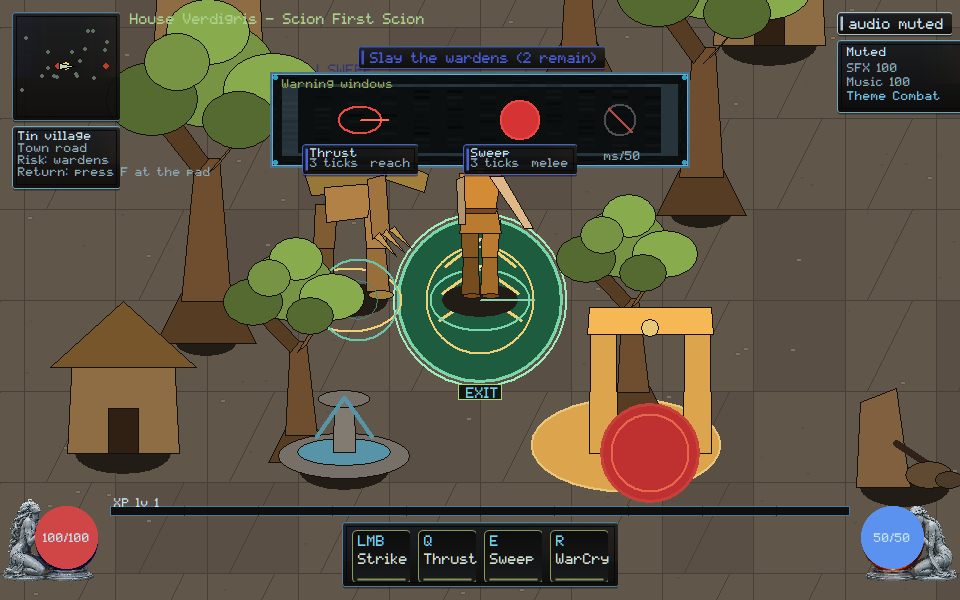
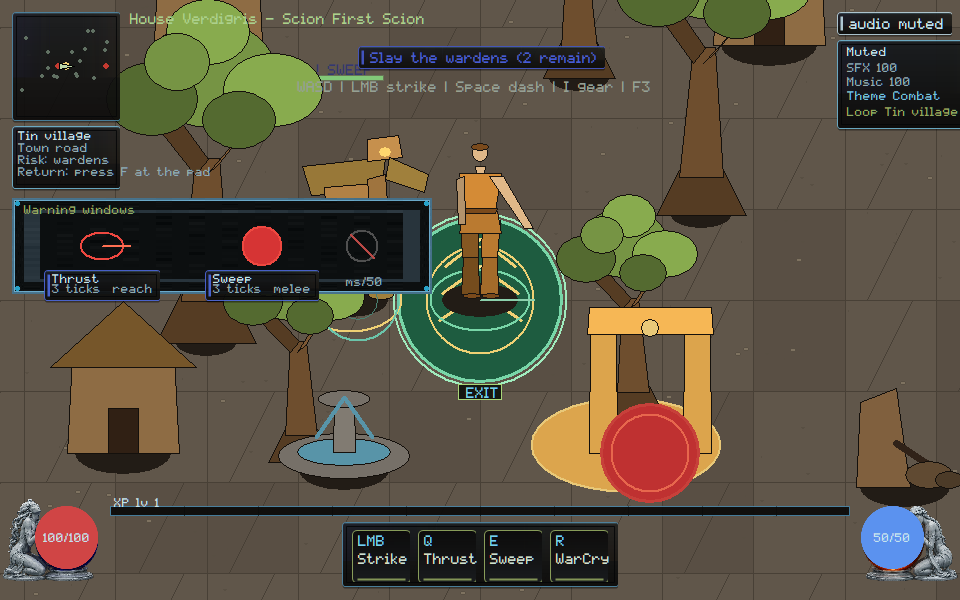
native: park Warning windows off WASD and Tin village so covering combat HUD cannot certify

Changed region(s): [[0.0, 0.33, 0.4688, 0.51], [0.2812, 0.12, 0.7188, 0.3], [0.875, 0.18, 1.0, 0.24]]

diff --git a/native/client/main.cpp b/native/client/main.cpp
@@ -6428,6 +6428,9 @@ void paint_weave_review_strip(ClientState& state, HDC dc, const RECT& bounds,
   SelectObject(dc, old_font);
 }
 
+HudRect park_review_strip(const ClientState& state, int width, int height,
+                          int pane_w, int pane_h);
+
 void paint_telegraph_review_strip(ClientState& state, HDC dc, const RECT& bounds,
                                   render::List& rl) {
   if (!state.telegraph_review_strip) return;
@@ -6438,8 +6441,12 @@ void paint_telegraph_review_strip(ClientState& state, HDC dc, const RECT& bounds
   const int s = hud_scale(static_cast<int>(bounds.bottom));
   const int pane_w = 420 * s;
   const int pane_h = 96 * s;
-  const int left = (static_cast<int>(bounds.right) - pane_w) / 2;
-  const int top = 72 * s;
+  const HudRect parked =
+      park_review_strip(state, static_cast<int>(bounds.right),
+                        static_cast<int>(bounds.bottom), pane_w, pane_h);
+  const int left = parked.x;
+  const int top = parked.y;
+  state.hud_rect_trace.push_back({"telegraph-strip", parked});
   RECT pane{left, top, left + pane_w, top + pane_h};
   if (!draw_framekit_nine(state.billboards, dc, state.billboards.fk_panel, pane))
     skin::panel(dc, pane, skin::kVerdigris, 235, 8.0f);
@@ -16276,6 +16283,30 @@ int scenario_telegraph_spec() {
   const std::string png = dir + "\\telegraph-spec-960x600.png";
   scenario_check(reference_present(state, 960, 600, png),
                  "telegraph-spec: warning-window capture written");
+  {
+    auto trace_find = [](const ClientState& s,
+                         const char* label) -> const HudRect* {
+      for (const auto& entry : s.hud_rect_trace)
+        if (entry.first == label) return &entry.second;
+      return nullptr;
+    };
+    const HudRect* strip = trace_find(state, "telegraph-strip");
+    const HudRect* ctrl = trace_find(state, "controls");
+    const HudRect* objective = trace_find(state, "objective");
+    const HudRect* route = trace_find(state, "route-card");
+    const HudRect* life = trace_find(state, "orb-life");
+    const bool covers =
+        (strip && ctrl && hud_rects_overlap(*strip, *ctrl)) ||
+        (strip && objective && hud_rects_overlap(*strip, *objective)) ||
+        (strip && route && hud_rects_overlap(*strip, *route)) ||
+        (strip && life && hud_rects_overlap(*strip, *life));
+    scenario_check(
+        verdigris::client::actions::telegraph_strip_covers_hud_fails_review(true),
+        "telegraph-spec: covering WASD, the objective, Tin village, or Life is the anti-pattern");
+    scenario_check(
+        !verdigris::client::actions::telegraph_strip_covers_hud_fails_review(covers),
+        "telegraph-spec: Warning windows stays off WASD, the objective, Tin village, and Life");
+  }
 
   ActiveTelegraph ghost;
   ghost.actor_id = "ghost";

diff --git a/native/client/publish-telegraph-timing-and-geometry.hpp b/native/client/publish-telegraph-timing-and-geometry.hpp
@@ -102,5 +102,8 @@ inline const char* owner_life_holds_label() { return "Life holds"; }
 inline bool dodge_strip_covers_hud_fails_review(bool overlap) {
   return overlap;
 }
+inline bool telegraph_strip_covers_hud_fails_review(bool overlap) {
+  return overlap;
+}
 
 }  // namespace verdigris::client::actions

diff --git a/docs/execution/CROSSWALK.md b/docs/execution/CROSSWALK.md
@@ -73,7 +73,7 @@ Cursor evidence notes.
 | VG | Disposition | Existing |
 |---|---|---|
 | VG-ACT-007 | new | `attack-beat` event bridge; owner Attack beat / Anticipate; fabricated swing cannot mint. Not TASK-0108 |
-| VG-ACT-005 | new | catalog-typed warning window (`telegraph-spec`) plus dodge-clear (`telegraph-dodge`); owner strip paints ticks+footprint and Dodge clear / Life holds; Dodge clear stays off WASD/objective/Tin village/Life; ms/50 and ghost hit cannot invent damage. Core ACT stays Kimi |
+| VG-ACT-005 | new | catalog-typed warning window (`telegraph-spec`) plus dodge-clear (`telegraph-dodge`); owner strip paints ticks+footprint and Dodge clear / Life holds; Warning windows / Dodge clear stay off WASD/objective/Tin village/Life; ms/50 and ghost hit cannot invent damage. Core ACT stays Kimi |
 | VG-ACT-001–006, 008 | new / extend | Kimi lease (`native/src/**`) |
 
 ## WORLD (Cursor presentation dressing only)
@@ -312,11 +312,13 @@ VG-ACT-005: local ticks and remote `durationMs` share
 `presentation_catalog().telegraph_ticks` and reach. `value/50` cannot
 invent a longer window. Owner strip paints Thrust/Sweep ticks and
 footprint; a protocol HUD token without that window cannot certify.
-Expired/cancelled warnings leave no footprint. `telegraph-dodge` owner
-strip paints Dodge clear / Life holds and parks off WASD, the objective,
-Tin village, and Life. Covering those combat surfaces cannot certify.
-Ghost hit cannot certify an avoided sweep. Scenarios `telegraph-spec` /
-`telegraph-dodge`. Evidence `docs/execution/evidence/VG-ACT-005.json`.
+Expired/cancelled warnings leave no footprint. Owner strip paints
+Warning windows and parks off WASD, the objective, Tin village, and
+Life. `telegraph-dodge` owner strip paints Dodge clear / Life holds and
+parks off WASD, the objective, Tin village, and Life. Covering those
+combat surfaces cannot certify. Ghost hit cannot certify an avoided
+sweep. Scenarios `telegraph-spec` / `telegraph-dodge`. Evidence
+`docs/execution/evidence/VG-ACT-005.json`.
 VG-WORLD-008: dressing-pass v1/v2 change decoration hash only.
 Owner strip paints Dressing / Not solid. A tree visual cannot become an
 unreported solid. Scenario `dressing-pass`. Evidence

diff --git a/docs/execution/CROSSWALK_REGISTRY.md b/docs/execution/CROSSWALK_REGISTRY.md
@@ -35,7 +35,7 @@ not implemented here.
 | VG-ACT-002 | G2 | new | Kimi lease (`native/src/**` / tools); current-head search, no absence claim |
 | VG-ACT-003 | G2 | new | Kimi lease (`native/src/**` / tools); current-head search, no absence claim |
 | VG-ACT-004 | G2 | extend | TASK-0108 — extend, never re-spec TASK-0108 — Kimi lease |
-| VG-ACT-005 | G2 | new | telegraph-spec catalog ticks+reach; telegraph-dodge Dodge clear stays off WASD/objective/Tin village/Life; durationMs/50 cannot invent a window |
+| VG-ACT-005 | G2 | new | telegraph-spec Warning windows stays off WASD/objective/Tin village/Life; telegraph-dodge Dodge clear stays off WASD/objective/Tin village/Life; durationMs/50 cannot invent a window |
 | VG-ACT-006 | G2 | new | Kimi lease (`native/src/**` / tools); current-head search, no absence claim |
 | VG-ACT-007 | G3 | new | attack-beat event bridge; swing sprites cannot mint a beat |
 | VG-ACT-008 | G3 | new | Kimi lease (`native/src/**` / tools); current-head search, no absence claim |

diff --git a/orchestration/CURSOR_KIMI_LANES.md b/orchestration/CURSOR_KIMI_LANES.md
@@ -1150,3 +1150,16 @@ Please move off that branch before taking a new native path.
   remain yours. GOV-002 still unstamped.
   Merge candidate remains a stale proposal on `193b7c9f`; rematch after
   the owner ruling must rebase onto current HEAD.
+
+## Cursor reply (2026-09-06, Warning windows off WASD and Tin village)
+
+- **Lease:** `main.cpp` still **ACTIVE**. `remote_session.cpp` stays
+  **RELEASED**. Do not re-spec TASK-0108 core/wire (`3b929637`).
+- **Landed this push:** VG-ACT-005/007 — Warning windows parks off WASD,
+  the objective, Tin village, and Life. Covering those cannot certify.
+  ms/50 still rejected. Core ACT stays yours. Captures viewed. Not
+  Owner Demo.
+- **Stay off** `native/client/main.cpp` and `docs/execution/**`. SEC/CORE
+  remain yours. GOV-002 still unstamped.
+  Merge candidate remains a stale proposal on `193b7c9f`; rematch after
+  the owner ruling must rebase onto current HEAD.

diff --git a/docs/rebuild/HANDOFF.md b/docs/rebuild/HANDOFF.md
@@ -1,5 +1,14 @@
 # Native reconstitution handoff
 
+## 2026-09-06 — Warning windows off WASD and Tin village (Cursor)
+
+- VG-ACT-005 / VG-UI-007: Warning windows parks off WASD, the objective,
+  Tin village, and Life. Covering those combat surfaces cannot certify.
+  ms/50 still rejected. Core ACT stays Kimi. Owner Demo journeys not
+  duplicated.
+- Scenario `telegraph-spec` PASS. Capture viewed. Not Owner Demo. Not
+  TASK-0108.
+
 ## 2026-09-06 — Dodge clear off WASD and Tin village (Cursor)
 
 - VG-ACT-005 / VG-UI-007: Dodge clear / Life holds parks off WASD, the
